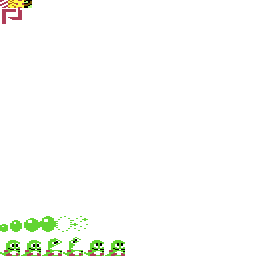
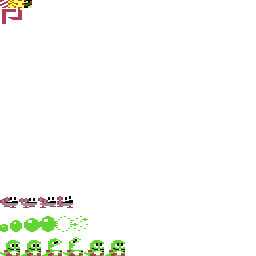
bubbl

Changed region(s): [[0.0, 0.75, 0.2812, 0.8125]]

diff --git a/bubble/src/foes.py b/bubble/src/foes.py
@@ -1,0 +1,45 @@
+import monkey
+from . import settings
+
+class ZenChan(monkey.Node):
+
+	def x(self, dt):
+		self.controller.move((1, 0), False)
+		if self.controller.left:
+			self.flip_x = False
+		elif self.controller.right:
+			self.flip_x = True
+		# if player is above, then try to jump up
+
+		# if on edge, --> player above or equal: jump, otherwise fall
+
+
+	def __init__(self, x, y, sprite, dir, **kwargs):
+		super().__init__()
+		self.dir = dir
+		self.flip_x = dir < 0
+		self.set_position(x, y, 1)
+		# model
+		batch = sprite[:sprite.find('/')]
+		self.set_model(monkey.models.getSprite(sprite), batch=batch)
+		# add collider
+		collider = monkey.components.Collider(settings.FLAG_FOE,
+			settings.FLAG_PLAYER | settings.FLAG_BUBBLE, settings.TAG_FOE,
+			monkey.shapes.AABB(-8, 8, 0, 16))
+		self.add_component(collider)
+		# add controller
+		self.controller = monkey.components.Controller2D(size=(16,16), speed=20, acceleration=500,
+			jump_height=128, time_to_jump_apex=1)
+		    #walk='walk', idle='walk', slide='walk', jumpUp='walk',
+		    #jumpDown='walk')
+		self.controller.addCallback(self.x)
+		self.add_component(self.controller)
+		#self.controller.addModel(monkey.models.getSprite(sprite), idle, walk, slide, jumpUp, jumpDown)
+		#bf = monkey.models.getSprite('gfx/bub_fire')
+		# add event when frame is 2
+		#bf.addFrameCallback('default', 2, Bub.makeBubble)
+		# add event when frame count resets to 0
+		#bf.addFrameCallback('default', 0, Bub.resetModel)
+
+# no need to follow, no scrolling
+# self.add_component(monkey.components.Follow(0))

diff --git a/bubble/src/items.py b/bubble/src/items.py
@@ -12,8 +12,9 @@ class RectangularPlatform(monkey.Node):
 		if tx != -1:
 			tp= monkey.TileParser('gfx')
 			self.set_model(tp.parse('Q {0},{1},{2},{3},{4},{5}'.format(tx, ty, tw, th, width, height)))
-		self.add_component(monkey.components.Collider(settings.FLAG_PLATFORM_SEMI, 0, 1,
-			monkey.shapes.AABB(0, platform_width, 0, platform_height)))
+		if y < 24:
+			self.add_component(monkey.components.Collider(settings.FLAG_PLATFORM_SEMI, 0, 1,
+				monkey.shapes.AABB(0, platform_width, 0, platform_height)))
 
 class Bubble(monkey.Node):
 	def rm(node):
@@ -21,7 +22,7 @@ class Bubble(monkey.Node):
 	def __init__(self, x, y, flip):
 		super().__init__()
 		self.timer = 0
-		self.timeout = 5
+		self.timeout = 2225
 		if x > 239.9 - 8:
 			x = 239.9 - 8
 		if x < 16.1 + 8:
@@ -36,7 +37,7 @@ class Bubble(monkey.Node):
 
 
 		self.collider = monkey.components.Collider(settings.FLAG_BUBBLE, settings.FLAG_PLAYER | settings.FLAG_FOE,
-			settings.TAG_FOE, monkey.shapes.AABB(-8, 8, -8, 8))
+			settings.TAG_BUBBLE, monkey.shapes.AABB(-8, 8, -8, 8))
 		self.controller = monkey.components.Controller2D(size=(16, 16), speed=20, acceleration=500,
 			jump_height=0, time_to_jump_apex=0)
 		self.controller.addCallback(self.shoot)
@@ -63,6 +64,11 @@ class Bubble(monkey.Node):
 
 	def burst(self, dt):
 		pass
+
+	def blow_up(self):
+		self.setAnimation('burst')
+		self.controller.setState(2)
+
 	def drift(self, dt):
 		self.timer += dt
 		if self.timer >= self.timeout:

diff --git a/bubble/src/room.py b/bubble/src/room.py
@@ -2,6 +2,8 @@ import monkey
 from . import settings
 from .items import RectangularPlatform
 from .bub import Bub
+from .foes import ZenChan
+from .collision import PlayerVsBubble
 from re import sub
 
 class GameRoom(monkey.Room):
@@ -25,7 +27,7 @@ class GameRoom(monkey.Room):
 							  bounds_x=(dw//2, dw//2), bounds_y=(dh//2, dh//2))
 		self.add_camera(cam)
 		collision_engine = monkey.CollisionEngine2D(64, 64)
-		#collision_engine.addResponse(MarioVsGoomba(values.TAG_PLAYER, values.TAG_FOE))
+		collision_engine.addResponse(PlayerVsBubble(settings.TAG_PLAYER, settings.TAG_BUBBLE))
 		self.add_runner(collision_engine)
 		root = self.root()
 		kb = monkey.components.Keyboard()
@@ -43,7 +45,8 @@ class GameRoom(monkey.Room):
 		root.add(self.generateSide(30, 0, li))
 
 		root.add(Bub(24, 8.1, 'gfx/bub', 6, 16, slide='walk', jumpUp='jump_up'))
-
+		# place foes
+		root.add(ZenChan(96, 8.1, 'gfx/zenchan',1))
 
 	def rle_decode(s: str):
 		return sub(r'(\d+)(\D)', lambda m: m.group(2) * int(m.group(1)), s)

diff --git a/bubble/src/bub.py b/bubble/src/bub.py
@@ -28,6 +28,10 @@ class Bub(monkey.Node):
 		print('FIRE!')
 		self.controller.setModel(1)
 
+	def bounce(self):
+		v = self.controller.velocity
+		self.controller.velocity = (v[0], self.controller.jumpVelocity)
+
 	def makeBubble(node):
 		if node.can_bubble:
 			bubble = Bubble(node.x, node.y + 8, node.flip_x)
@@ -49,7 +53,7 @@ class Bub(monkey.Node):
 		# add collider
 		collider = monkey.components.Collider(settings.FLAG_PLAYER,
 			settings.FLAG_FOE | settings.FLAG_BUBBLE, settings.TAG_PLAYER,
-			monkey.shapes.AABB(-width//2, width//2, 0, height))
+			monkey.shapes.AABB(-12, 4, 0, height))
 		#collider.setResponse(values.TAG_FOE, on_enter=self.on_hit_by_foe)
 		self.add_component(collider)
 		# add controller

diff --git a/bubble/src/collision.py b/bubble/src/collision.py
@@ -1,0 +1,28 @@
+import monkey
+
+
+class PlayerVsBubble(monkey.CollisionResponse):
+	def __init__(self, tag1, tag2):
+		super().__init__(tag1, tag2)
+
+	def onStart(self, player, foe, move, who):
+		# print(player.node.x, who, move)
+		print(type(player.node))
+		print('ciao',foe.node.controller.state)
+
+
+		if foe.node.controller.state != 0:
+			if who == 0 and monkey.isKeyPressed(265) and not player.node.controller.grounded and move[1] < 0:
+				#foe.node.blow_up()
+				player.node.bounce()
+			else:
+				print('qui')
+				foe.node.blow_up()
+		#	#foe.node.remove()
+	    #		foe.node.dead()
+
+
+		#print('START COLLISION')
+
+	def onEnd(self, p, f):
+		print('END COLLISION')

diff --git a/bubble/src/settings.py b/bubble/src/settings.py
@@ -15,8 +15,10 @@ FLAG_BUBBLE = 8
 FLAG_PLATFORM_SEMI = 32
 TAG_PLAYER = 0
 TAG_FOE =1
+TAG_BUBBLE = 2
 BUBBLE_SHOOT_SPEED = 200
 BUBBLE_DRIFT_SPEED = 30
+DRAW_COLLIDER_OUTLINE = 'lines'
 
 level_data = {}
 level = 1
